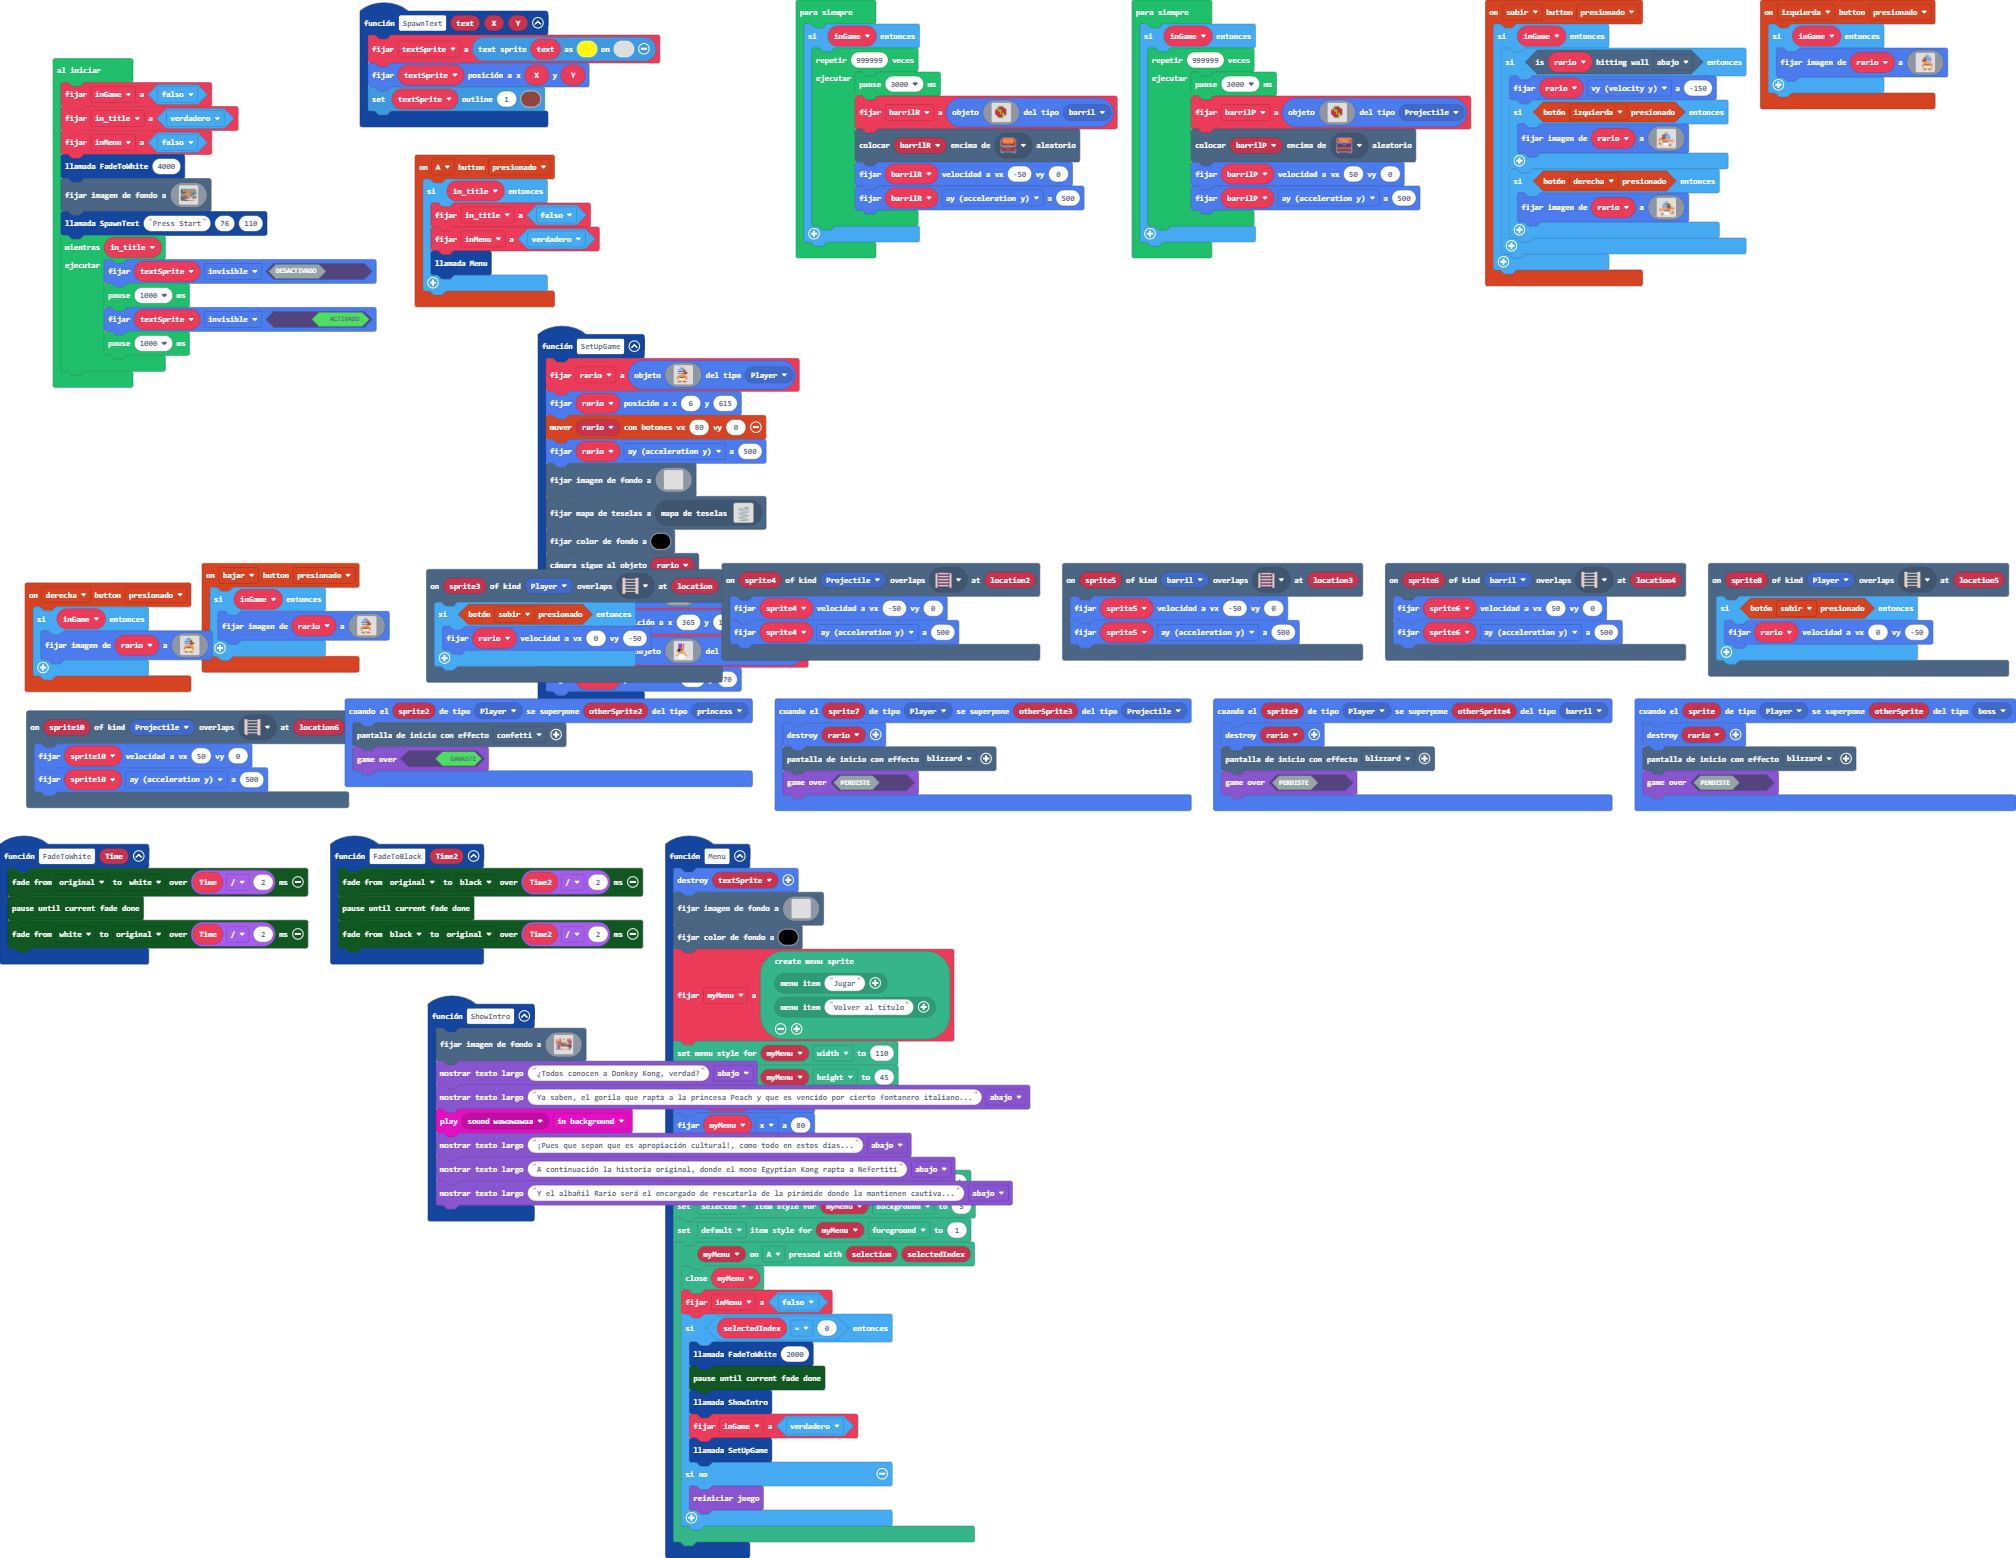
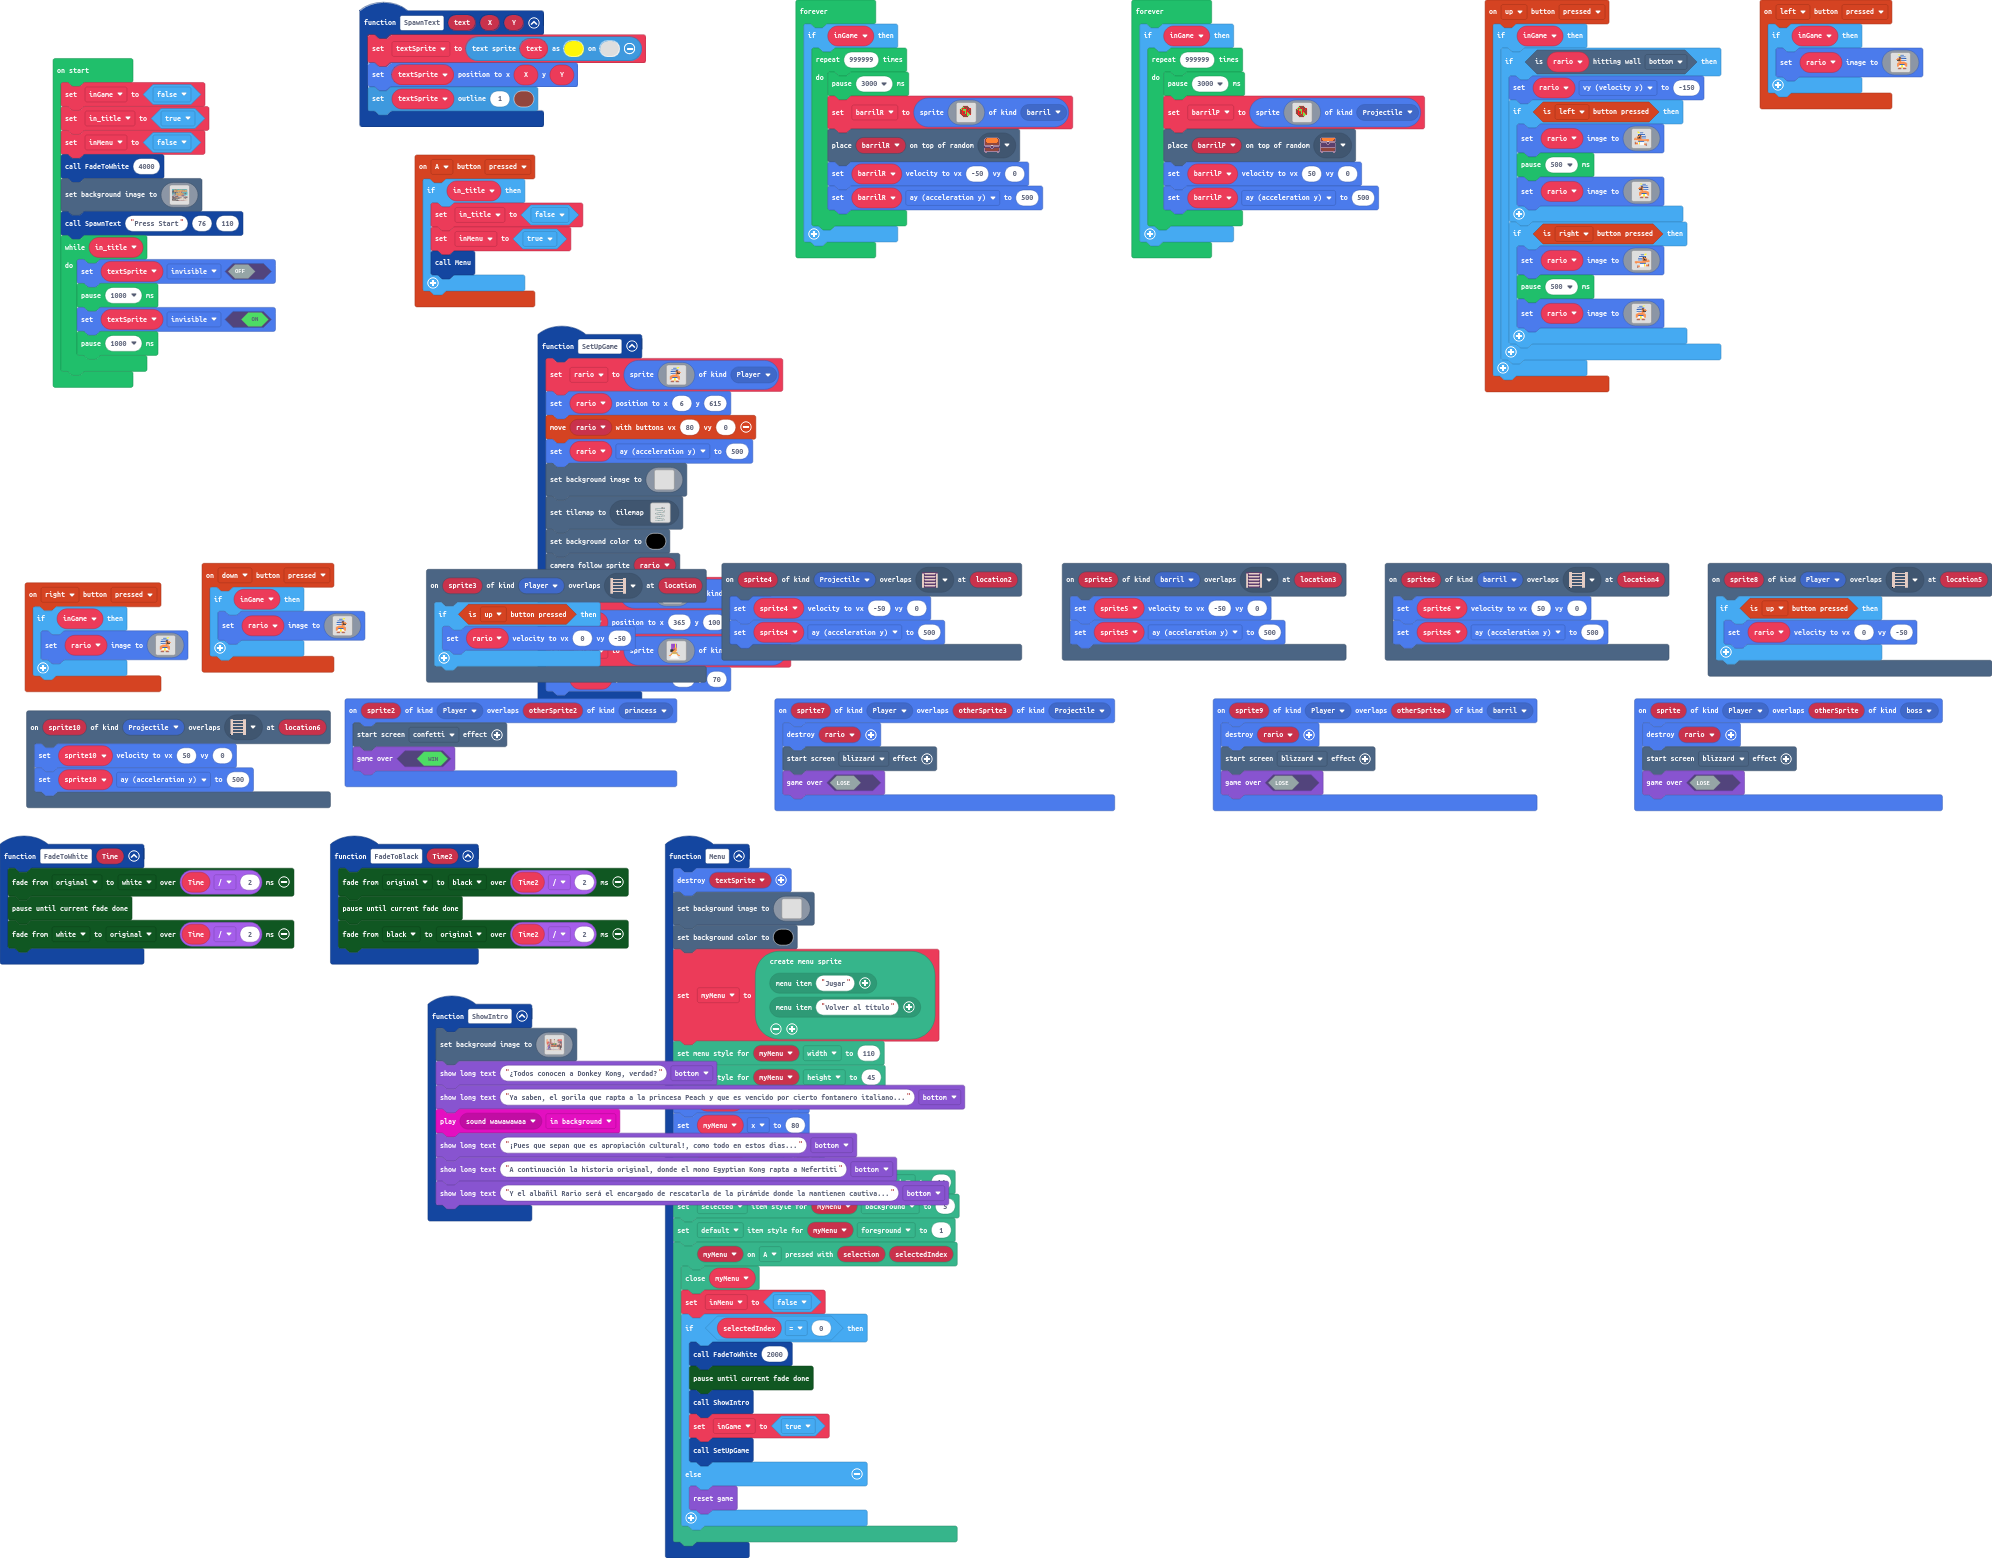
Arreglado salto lateral

diff --git a/main.ts b/main.ts
@@ -8,6 +8,23 @@ sprites.onOverlap(SpriteKind.Player, SpriteKind.boss, function (sprite, otherSpr
     effects.blizzard.startScreenEffect()
     game.gameOver(false)
 })
+controller.up.onEvent(ControllerButtonEvent.Pressed, function () {
+    if (inGame) {
+        if (rario.isHittingTile(CollisionDirection.Bottom)) {
+            rario.vy = -150
+            if (controller.left.isPressed()) {
+                rario.setImage(assets.image`mJumpL`)
+                pause(500)
+                rario.setImage(assets.image`RarioL`)
+            }
+            if (controller.right.isPressed()) {
+                rario.setImage(assets.image`mJumpR`)
+                pause(500)
+                rario.setImage(assets.image`Rario`)
+            }
+        }
+    }
+})
 sprites.onOverlap(SpriteKind.Player, SpriteKind.Projectile, function (sprite7, otherSprite3) {
     sprites.destroy(rario)
     effects.blizzard.startScreenEffect()
@@ -30,20 +47,17 @@ scene.onOverlapTile(SpriteKind.barril, assets.tile`stair2`, function (sprite6, l
     sprite6.setVelocity(50, 0)
     sprite6.ay = 500
 })
-controller.down.onEvent(ControllerButtonEvent.Pressed, function () {
-    if (inGame) {
-        rario.setImage(assets.image`Rario`)
+controller.A.onEvent(ControllerButtonEvent.Pressed, function () {
+    if (in_title) {
+        in_title = false
+        inMenu = true
+        Menu()
     }
 })
 sprites.onOverlap(SpriteKind.Player, SpriteKind.barril, function (sprite9, otherSprite4) {
     sprites.destroy(rario)
     effects.blizzard.startScreenEffect()
     game.gameOver(false)
-})
-controller.right.onEvent(ControllerButtonEvent.Pressed, function () {
-    if (inGame) {
-        rario.setImage(assets.image`Rario`)
-    }
 })
 controller.left.onEvent(ControllerButtonEvent.Pressed, function () {
     if (inGame) {
@@ -55,13 +69,6 @@ function SpawnText (text: string, X: number, Y: number) {
     textSprite.setPosition(X, Y)
     textSprite.setOutline(1, 14)
 }
-controller.A.onEvent(ControllerButtonEvent.Pressed, function () {
-    if (in_title) {
-        in_title = false
-        inMenu = true
-        Menu()
-    }
-})
 scene.onOverlapTile(SpriteKind.Player, assets.tile`stair2`, function (sprite8, location5) {
     if (controller.up.isPressed()) {
         rario.setVelocity(0, -50)
@@ -202,6 +209,11 @@ function FadeToBlack (Time2: number) {
     color.pauseUntilFadeDone()
     color.startFade(color.Black, color.originalPalette, Time2 / 2)
 }
+controller.right.onEvent(ControllerButtonEvent.Pressed, function () {
+    if (inGame) {
+        rario.setImage(assets.image`Rario`)
+    }
+})
 scene.onOverlapTile(SpriteKind.Player, assets.tile`stair1`, function (sprite3, location) {
     if (controller.up.isPressed()) {
         rario.setVelocity(0, -50)
@@ -221,17 +233,9 @@ function SetUpGame () {
     nefer = sprites.create(assets.image`Nefertiti`, SpriteKind.princess)
     nefer.setPosition(300, 70)
 }
-controller.up.onEvent(ControllerButtonEvent.Pressed, function () {
+controller.down.onEvent(ControllerButtonEvent.Pressed, function () {
     if (inGame) {
-        if (rario.isHittingTile(CollisionDirection.Bottom)) {
-            rario.vy = -150
-            if (controller.left.isPressed()) {
-                rario.setImage(assets.image`mJumpL`)
-            }
-            if (controller.right.isPressed()) {
-                rario.setImage(assets.image`mJumpR`)
-            }
-        }
+        rario.setImage(assets.image`Rario`)
     }
 })
 scene.onOverlapTile(SpriteKind.Projectile, sprites.dungeon.stairSouth, function (sprite4, location2) {

diff --git a/tilemap.g.ts b/tilemap.g.ts
@@ -1,4 +1,4 @@
-// Código generado automáticamente. No editar.
+// Auto-generated code. Do not edit.
 namespace myTiles {
     //% fixedInstance jres blockIdentity=images._tile
     export const transparency16 = image.ofBuffer(hex``);
@@ -230,6 +230,25 @@ namespace myTiles {
 .......2222222222222.....
 22222222222..............
 `, [myTiles.transparency16,myTiles.tile3,sprites.dungeon.greenOuterNorth0,sprites.dungeon.greenOuterNorthWest,sprites.dungeon.greenOuterNorth1,sprites.dungeon.doorLockedNorth,sprites.dungeon.greenOuterNorth2,sprites.dungeon.chestOpen,sprites.dungeon.chestClosed,myTiles.tile4,sprites.dungeon.stairSouth], TileScale.Sixteen);
+            case "nivel1":
+            case "nivel1":return tiles.createTilemap(hex`1000100000000000000000000000000000000000000000000000000000000000000000000000000000000000000000000000000000000000000000000000000000000000000000000000000000000000000000000000000000000000000000000000000000000000000000000000000000000000000000000000000000000000000000000000000000000000000000000000000000000000000000000000000000000000000000000000000000000000000000000000000000000000000000000000000000000000000000000000000000000000000000000000000000000000000000000000000000000000000000000000000000000000000000000000000000000000`, img`
+. . . . . . . . . . . . . . . . 
+. . . . . . . . . . . . . . . . 
+. . . . . . . . . . . . . . . . 
+. . . . . . . . . . . . . . . . 
+. . . . . . . . . . . . . . . . 
+. . . . . . . . . . . . . . . . 
+. . . . . . . . . . . . . . . . 
+. . . . . . . . . . . . . . . . 
+. . . . . . . . . . . . . . . . 
+. . . . . . . . . . . . . . . . 
+. . . . . . . . . . . . . . . . 
+. . . . . . . . . . . . . . . . 
+. . . . . . . . . . . . . . . . 
+. . . . . . . . . . . . . . . . 
+. . . . . . . . . . . . . . . . 
+. . . . . . . . . . . . . . . . 
+`, [myTiles.transparency16], TileScale.Sixteen);
         }
         return null;
     })
@@ -248,4 +267,4 @@ namespace myTiles {
     })
 
 }
-// Código generado automáticamente. No editar.
+// Auto-generated code. Do not edit.

diff --git a/images.g.ts b/images.g.ts
@@ -1,4 +1,4 @@
-// Código generado automáticamente. No editar.
+// Auto-generated code. Do not edit.
 namespace myImages {
 
     helpers._registerFactory("image", function(name: string) {
@@ -487,4 +487,4 @@ e e 2 2 2 2 2 2 2 2 2 e e . . .
     })
 
 }
-// Código generado automáticamente. No editar.
+// Auto-generated code. Do not edit.

diff --git a/main.py b/main.py
@@ -10,6 +10,28 @@ def on_on_overlap(sprite, otherSprite):
     game.game_over(False)
 sprites.on_overlap(SpriteKind.player, SpriteKind.boss, on_on_overlap)
 
+def on_up_pressed():
+    if inGame:
+        if rario.is_hitting_tile(CollisionDirection.BOTTOM):
+            rario.vy = -150
+            if controller.left.is_pressed():
+                rario.set_image(assets.image("""
+                    mJumpL
+                """))
+                pause(500)
+                rario.set_image(assets.image("""
+                    RarioL
+                """))
+            if controller.right.is_pressed():
+                rario.set_image(assets.image("""
+                    mJumpR
+                """))
+                pause(500)
+                rario.set_image(assets.image("""
+                    Rario
+                """))
+controller.up.on_event(ControllerButtonEvent.PRESSED, on_up_pressed)
+
 def on_on_overlap2(sprite7, otherSprite3):
     sprites.destroy(rario)
     effects.blizzard.start_screen_effect()
@@ -42,25 +64,19 @@ scene.on_overlap_tile(SpriteKind.barril,
     """),
     on_overlap_tile2)
 
-def on_down_pressed():
-    if inGame:
-        rario.set_image(assets.image("""
-            Rario
-        """))
-controller.down.on_event(ControllerButtonEvent.PRESSED, on_down_pressed)
+def on_a_pressed():
+    global in_title, inMenu
+    if in_title:
+        in_title = False
+        inMenu = True
+        Menu()
+controller.A.on_event(ControllerButtonEvent.PRESSED, on_a_pressed)
 
 def on_on_overlap4(sprite9, otherSprite4):
     sprites.destroy(rario)
     effects.blizzard.start_screen_effect()
     game.game_over(False)
 sprites.on_overlap(SpriteKind.player, SpriteKind.barril, on_on_overlap4)
-
-def on_right_pressed():
-    if inGame:
-        rario.set_image(assets.image("""
-            Rario
-        """))
-controller.right.on_event(ControllerButtonEvent.PRESSED, on_right_pressed)
 
 def on_left_pressed():
     if inGame:
@@ -74,14 +90,6 @@ def SpawnText(text: str, X: number, Y: number):
     textSprite = textsprite.create(text, 0, 5)
     textSprite.set_position(X, Y)
     textSprite.set_outline(1, 14)
-
-def on_a_pressed():
-    global in_title, inMenu
-    if in_title:
-        in_title = False
-        inMenu = True
-        Menu()
-controller.A.on_event(ControllerButtonEvent.PRESSED, on_a_pressed)
 
 def on_overlap_tile3(sprite8, location5):
     if controller.up.is_pressed():
@@ -231,6 +239,13 @@ def FadeToBlack(Time2: number):
     color.pause_until_fade_done()
     color.start_fade(color.black, color.original_palette, Time2 / 2)
 
+def on_right_pressed():
+    if inGame:
+        rario.set_image(assets.image("""
+            Rario
+        """))
+controller.right.on_event(ControllerButtonEvent.PRESSED, on_right_pressed)
+
 def on_overlap_tile4(sprite3, location):
     if controller.up.is_pressed():
         rario.set_velocity(0, -50)
@@ -265,19 +280,12 @@ def SetUpGame():
     """), SpriteKind.princess)
     nefer.set_position(300, 70)
 
-def on_up_pressed():
+def on_down_pressed():
     if inGame:
-        if rario.is_hitting_tile(CollisionDirection.BOTTOM):
-            rario.vy = -150
-            if controller.left.is_pressed():
-                rario.set_image(assets.image("""
-                    mJumpL
-                """))
-            if controller.right.is_pressed():
-                rario.set_image(assets.image("""
-                    mJumpR
-                """))
-controller.up.on_event(ControllerButtonEvent.PRESSED, on_up_pressed)
+        rario.set_image(assets.image("""
+            Rario
+        """))
+controller.down.on_event(ControllerButtonEvent.PRESSED, on_down_pressed)
 
 def on_overlap_tile5(sprite4, location2):
     sprite4.set_velocity(-50, 0)
